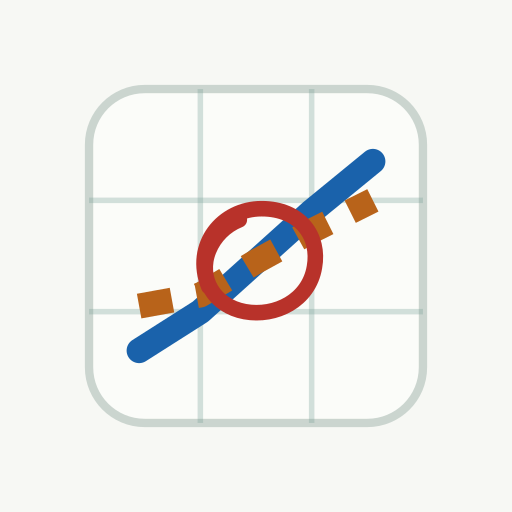
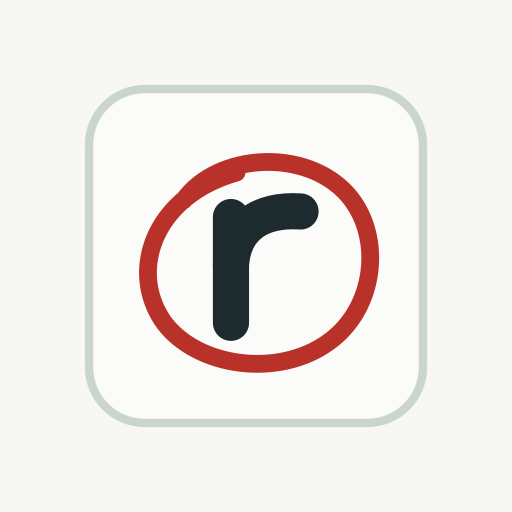
Brand: switch the mark to the ringed r
Pearson's r, circled in red pencil like a checked answer: the same gesture
the app uses for every verdict. logo.json drives both the themed in-app
mark (with an optional draw-on) and `npm run brand`, which regenerated the
favicons, app icons and OG image. DESIGN.md updated to match.

Changed region(s): [[0.1562, 0.1562, 0.8438, 0.8438]]

diff --git a/src/app/Logo.tsx b/src/app/Logo.tsx
@@ -3,29 +3,37 @@ import { cn } from '@/lib/utils'
 
 type Variant = keyof Omit<typeof logo, '_comment'>
 
-/** The mark, themed through CSS variables so it follows light/dark with the rest of the page. */
-export function LogoMark({ size = 32, variant = size >= 40 ? 'full' : 'small', className }: { size?: number; variant?: Variant; className?: string }) {
+/**
+ * The ringed r: the correlation coefficient, checked in red pencil. Themed through CSS variables so it
+ * follows light/dark with the rest of the page. With `draw`, the ring draws itself once on mount, like the Verdict Mark.
+ */
+export function LogoMark({ size = 32, variant = size >= 40 ? 'full' : 'small', draw = false, className }: { size?: number; variant?: Variant; draw?: boolean; className?: string }) {
   const g = logo[variant]
   const t = g.tile
   return (
     <svg viewBox="0 0 64 64" width={size} height={size} aria-hidden className={cn('shrink-0', className)}>
       <rect x={t.x} y={t.y} width={t.size} height={t.size} rx={t.radius} fill="var(--card)"
         stroke={t.border ? 'var(--border)' : 'none'} strokeWidth={t.border} />
-      {g.grid.map((d) => <path key={d} d={d} stroke="var(--grid-major)" strokeWidth={1} />)}
-      <path d={g.a.d} fill="none" stroke="var(--series-a)" strokeWidth={g.a.width} strokeLinecap="round" strokeLinejoin="round" />
-      <path d={g.b.d} fill="none" stroke="var(--series-b)" strokeWidth={g.b.width} strokeDasharray={g.b.dash} strokeLinejoin="round" />
-      <path d={g.ring.d} fill="none" stroke="var(--pencil)" strokeWidth={g.ring.width} strokeLinecap="round" />
+      {g.r.d.map((d) => <path key={d} d={d} fill="none" stroke="var(--foreground)" strokeWidth={g.r.width} strokeLinecap="round" />)}
+      <path d={g.ring.d} fill="none" stroke="var(--pencil)" strokeWidth={g.ring.width} strokeLinecap="round"
+        {...(draw && { pathLength: 1, strokeDasharray: '1 2', strokeDashoffset: 1.05, className: 'animate-[pencil-draw_520ms_cubic-bezier(0.16,1,0.3,1)_200ms_both]' })} />
     </svg>
   )
 }
 
-/** Mark + wordmark, as used in the header and on share cards. */
-export function Logo({ size = 32, className }: { size?: number; className?: string }) {
+/** Mark + wordmark, as used in the header and on share cards. The wordmark is underlined in the same pencil. */
+export function Logo({ size = 32, draw = false, className }: { size?: number; draw?: boolean; className?: string }) {
   return (
     <span className={cn('inline-flex items-center gap-2.5', className)}>
-      <LogoMark size={size} />
-      <span className="font-semibold tracking-[-0.02em]" style={{ fontSize: size * 0.62 }}>
+      <LogoMark size={size} draw={draw} />
+      <span className="relative font-semibold tracking-[-0.02em]" style={{ fontSize: size * 0.62 }}>
         Correlate<span className="text-muted-foreground">AI</span>
+        <svg viewBox="0 0 100 8" preserveAspectRatio="none" aria-hidden
+          className={cn('absolute -left-[0.04em] -right-[0.08em] top-[calc(100%-0.32em)] h-[0.32em] w-[calc(100%+0.12em)] overflow-visible',
+            draw && 'animate-[pencil-sweep_420ms_cubic-bezier(0.16,1,0.3,1)_580ms_both]')}>
+          <path d="M 1 5.5 C 18 3.8 38 6.6 58 5 C 74 3.8 88 4.6 99 2.6" fill="none" stroke="var(--pencil)"
+            strokeWidth={size * 0.07} strokeLinecap="round" vectorEffect="non-scaling-stroke" />
+        </svg>
       </span>
     </span>
   )

diff --git a/public/404.html b/public/404.html
@@ -5,7 +5,7 @@
   <meta name="viewport" content="width=device-width, initial-scale=1.0" />
   <meta name="robots" content="noindex" />
   <title>Page not found | CorrelateAI</title>
-  <link rel="icon" type="image/svg+xml" href="/favicon.svg" />
+  <link rel="icon" type="image/svg+xml" href="/favicon.svg?v=2" />
   <style>
     :root { color-scheme: light dark; --bg: #f7f8f4; --fg: #1d2a2e; --muted: #56656a; --pencil: #b8322a; }
     @media (prefers-color-scheme: dark) { :root { --bg: #0a2a4c; --fg: #eef4fa; --muted: #aac4de; --pencil: #ff8f80; } }

diff --git a/eslint.config.js b/eslint.config.js
@@ -15,6 +15,7 @@ export default tseslint.config(
       'docs',
       'scripts',
       'correlateai-enterprise',
+      '.impeccable',
       '*.config.js',
       '*.config.ts',
       'test-*.js',

diff --git a/src/index.css b/src/index.css
@@ -182,3 +182,12 @@
     stroke-dashoffset: 0;
   }
 }
+
+@keyframes pencil-sweep {
+  from {
+    clip-path: inset(-50% 100% -50% 0);
+  }
+  to {
+    clip-path: inset(-50% 0 -50% 0);
+  }
+}

diff --git a/DESIGN.md b/DESIGN.md
@@ -286,7 +286,7 @@ A 1200×630 static composition of the same world: the wordmark and URL, the pair
 
 ## Motion
 
-There is one authored moment, and everything else is near-instant. Toggling "Remove trend" tweens the same line paths into their residuals over **700ms ease-out**. At the same time the headline r counts to its new value over **700ms** with a quadratic ease-out, so the number and the lines settle together. When the verdict level changes, the pencil ring draws on through an animated mask (**520ms, cubic-bezier(0.16, 1, 0.3, 1)**), which keeps dashed and dotted rings intact as they draw. The double ring's second loop follows after **380ms**, over 420ms. While a new pair loads, the current one dims to 60% opacity. Under `prefers-reduced-motion: reduce`, CSS animations and transitions collapse to 0.01ms and the r counter snaps directly to its value. The Recharts line tween is driven by JavaScript, so it checks the same media query and is turned off.
+There is one authored moment, and everything else is near-instant. Toggling "Remove trend" tweens the same line paths into their residuals over **700ms ease-out**. At the same time the headline r counts to its new value over **700ms** with a quadratic ease-out, so the number and the lines settle together. When the verdict level changes, the pencil ring draws on through an animated mask (**520ms, cubic-bezier(0.16, 1, 0.3, 1)**), which keeps dashed and dotted rings intact as they draw. The double ring's second loop follows after **380ms**, over 420ms. On page load the header logo is drawn in two pencil strokes: the ring draws itself around the r (**520ms**, same curve, after a **200ms** delay), and the underline sweeps left to right under the wordmark (a clip-path wipe, **420ms**, starting at **580ms** so it overlaps the end of the ring). Both play once per visit. The share card's logo stays static. While a new pair loads, the current one dims to 60% opacity. Under `prefers-reduced-motion: reduce`, CSS animations and transitions collapse to 0.01ms and the r counter snaps directly to its value. The Recharts line tween is driven by JavaScript, so it checks the same media query and is turned off.
 
 ## Do's and Don'ts
 
@@ -306,19 +306,19 @@ There is one authored moment, and everything else is near-instant. Toggling "Rem
 - **Don't** nest a bordered container inside another, and don't turn statistics into KPI tiles or chart cards.
 - **Don't** add gradients, glows, or shadows on anything that belongs to the sheet.
 - **Don't** introduce hue outside the two series inks and three verdict inks.
-- **Don't** add motion beyond the trend toggle and the pencil ring, and never animate without honouring reduced motion.
+- **Don't** add motion beyond the trend toggle and the pencil ring (verdict and logo), and never animate without honouring reduced motion.
 - **Don't** use emoji, or claim AI, "quantum" or "cutting-edge" anything.
 
 ## Brand Mark
 
-**Two lines, one ring.** Two trends rise together on a graph-paper tile: series A is solid ink-blue and series B is dashed ochre. Their crossing is ringed in red pencil, marking the moment of doubt the product exists for. The mark is made only from the system's own materials (plate, grid, series inks, pencil), so it themes with the page.
+**The ringed r.** A lowercase *r*, the correlation coefficient and the one number every pair is judged by, is ringed in red pencil. It is the Verdict Mark made into a logo: a number that has been checked. The mark uses only the system's own materials (plate, graphite ink, pencil), so it themes with the page. It replaced "Two lines, one ring", whose diagonal line through a red circle read as a "no entry" sign at favicon size.
 
 - **Source of truth:** `src/app/logo.json`. It holds the geometry, with viewBox 0 0 64 64.
-  - `full` is for 40 px and up: a bordered tile with a 3×3 grid.
-  - `small` is for favicons: no grid or border, heavier strokes, a larger ring.
+  - `full` is for 40 px and up: a bordered tile, 6.5 r stroke and 3.2 ring.
+  - `small` is for favicons and the header: no border, heavier strokes (7.5 r, 4.4 ring) and a slightly larger loop.
 - **In the app:** `LogoMark` and `Logo` in `src/app/Logo.tsx`. They are coloured by CSS variables, so the mark follows light and dark.
-- **Wordmark:** "Correlate" in foreground ink, then "AI" in muted ink, in Atkinson Hyperlegible Next 600 at -0.02em tracking. The name keeps "AI", but the type never puts weight on it.
+- **Wordmark:** "Correlate" in foreground ink, then "AI" in muted ink, in Atkinson Hyperlegible Next 600 at -0.02em tracking. The name keeps "AI", but the type never puts weight on it. A hand-drawn pencil underline runs under the whole wordmark. It is slightly uneven with a small lift at the end, never a straight rule, and its stroke is 7% of the mark size so it matches the ring.
 - **Icons:** `npm run brand` regenerates `favicon.svg` (switches with prefers-color-scheme), the 16/32 px PNGs, `favicon.ico`, `apple-touch-icon.png`, and the 192/512 px and maskable PWA icons.
 - **Social image:** `public/og-image.png` is the real share card for the default pair, downscaled to 1200×630, not a separate illustration.
-- **Don't** recolour the mark outside the token inks, put it on gradients, or draw the ring as a perfect circle. It is a pencil loop.
+- **Don't** recolour the mark outside graphite and pencil, put it on gradients, set the r as live text, or draw the ring as a perfect circle. It is a pencil loop that overshoots its start.
 
